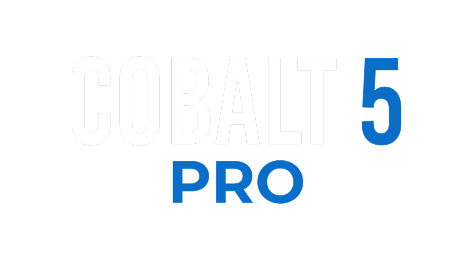
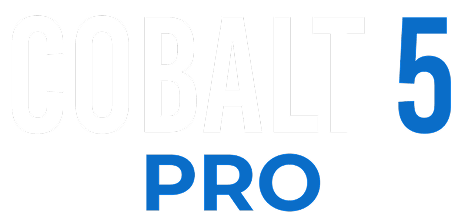
Update Step

Changed region(s): [[0.3043, 0.5938, 0.7, 0.9688], [0.7609, 0.0625, 1.0, 0.625]]

diff --git a/assets/theme.css b/assets/theme.css
@@ -75,11 +75,11 @@ ul, ol { margin: 0; padding: 0; list-style: none; }
   padding: 6px 14px;
   border-radius: var(--radius-pill);
   background: rgba(77,200,255,0.06);
-  border: 1px solid var(--line);
+  border: 1px solid rgba(77,200,255,0.35);
   font-size: 9px;
   font-weight: 700;
   letter-spacing: 0.22em;
-  color: var(--blue);
+  color: var(--blue-l);
   text-transform: uppercase;
 }
 .eyebrow .dot {
@@ -444,12 +444,13 @@ ul, ol { margin: 0; padding: 0; list-style: none; }
 }
 .hero h1 {
   font-family: var(--font-heading);
-  font-size: 88px;
+  font-size: 112px;
   line-height: 0.9;
   margin: 24px 0;
   color: var(--text);
   letter-spacing: 0.02em;
 }
+.hero h1 p { margin: 0; display: block; }
 .hero h1 .accent {
   background: linear-gradient(180deg, var(--blue-l) 0%, var(--blue) 100%);
   -webkit-background-clip: text;
@@ -770,23 +771,11 @@ ul, ol { margin: 0; padding: 0; list-style: none; }
 }
 .why-center .ring.r1 {
   width: 420px; height: 420px;
-  border: 21px solid rgba(17,136,214,0.55);
-  box-shadow: 0 0 40px rgba(17,136,214,0.4), 0 0 80px rgba(17,136,214,0.2), inset 0 0 40px rgba(17,136,214,0.15);
-  animation: ring-glow 3s ease-in-out infinite;
+  border: 2px solid rgba(17,136,214,0.9);
 }
 .why-center .ring.r2 {
-  width: 470px; height: 470px;
-  border: 4px solid rgba(17,136,214,0.35);
-  box-shadow: 0 0 20px rgba(77,200,255,0.25), 0 0 40px rgba(77,200,255,0.1);
-  animation: ring-glow 3s ease-in-out infinite 0.5s;
-}
-@keyframes ring-glow {
-  0%, 100% {
-    box-shadow: 0 0 40px rgba(17,136,214,0.4), 0 0 80px rgba(17,136,214,0.2), inset 0 0 40px rgba(17,136,214,0.15);
-  }
-  50% {
-    box-shadow: 0 0 60px rgba(17,136,214,0.65), 0 0 100px rgba(17,136,214,0.35), inset 0 0 60px rgba(17,136,214,0.25);
-  }
+  width: 490px; height: 490px;
+  border: 1px solid rgba(17,136,214,0.45);
 }
 .why-center__img {
   position: relative;
@@ -835,7 +824,6 @@ ul, ol { margin: 0; padding: 0; list-style: none; }
   background: var(--bg-3);
   border: 1px solid var(--line-soft);
   position: relative;
-  overflow: hidden;
   padding: 24px;
 }
 .tile.featured {
@@ -843,11 +831,13 @@ ul, ol { margin: 0; padding: 0; list-style: none; }
   padding: 0;
   background-size: cover;
   background-position: center;
+  overflow: hidden;
 }
 .tile.featured::after {
   content: '';
   position: absolute;
   inset: 0;
+  z-index: 1;
   background: linear-gradient(180deg, transparent 40%, rgba(6,8,15,0.85));
 }
 .tile.featured .caption {
@@ -933,38 +923,48 @@ ul, ol { margin: 0; padding: 0; list-style: none; }
 /* ---- APPLY STEPS ---- */
 .apply-grid {
   display: grid;
-  grid-template-columns: 1fr 1fr 1fr 1fr 1fr;
-  gap: 24px;
-  align-items: center;
+  grid-template-columns: 1fr auto 1fr auto 1fr auto 1fr;
+  gap: 16px;
+  align-items: stretch;
   margin-top: 64px;
   max-width: 1312px;
   margin-left: auto;
   margin-right: auto;
 }
-.step { position: relative; padding: 8px 0; }
-.step .num {
-  font-family: var(--font-heading);
-  font-size: 128px;
-  line-height: 1;
-  color: rgba(17,136,214,0.5);
-  letter-spacing: 0.02em;
-  transition: color 0.3s ease, transform 0.3s ease;
+.step {
+  position: relative;
+  background: var(--bg-3);
+  border: 1px solid var(--line-soft);
+  border-radius: var(--radius-md);
+  padding: 28px 28px 100px;
+  overflow: hidden;
+  height: 100%;
 }
-.step:hover .num { color: var(--blue); transform: translateX(4px); }
+.step .num {
+  position: absolute;
+  bottom: -12px; right: 10px;
+  font-family: var(--font-heading);
+  font-size: 120px;
+  line-height: 1;
+  color: rgba(77,200,255,0.1);
+  letter-spacing: 0.02em;
+  pointer-events: none;
+  transition: color 0.3s ease;
+}
+.step:hover .num { color: rgba(77,200,255,0.2); }
 .step h4 {
-  font-size: 15px;
+  font-size: 14px;
   font-weight: 700;
-  letter-spacing: 0.06em;
+  letter-spacing: 0.08em;
   color: var(--text);
-  margin: 16px 0 12px;
+  margin: 0 0 12px;
   white-space: pre-line;
 }
 .step p {
-  font-size: 14px;
+  font-size: 13px;
   line-height: 1.65;
   color: var(--text-2);
   margin: 0;
-  max-width: 220px;
 }
 .arrow-link {
   color: var(--blue);
@@ -2067,7 +2067,7 @@ ul, ol { margin: 0; padding: 0; list-style: none; }
    RESPONSIVE
    ======================================== */
 @media (max-width: 1200px) {
-  .hero h1 { font-size: 64px; }
+  .hero h1 { font-size: 80px; }
   .hero { padding: 80px 40px 60px; }
   .section { padding: 80px 40px; }
   .bento { grid-template-columns: 1fr 1fr 1fr; height: auto; }
@@ -2102,7 +2102,7 @@ ul, ol { margin: 0; padding: 0; list-style: none; }
   .hero-grid { grid-template-columns: 1fr; }
   .hero-visual { height: 340px; }
   .bottle { width: 180px; height: 340px; }
-  .hero h1 { font-size: 48px; }
+  .hero h1 { font-size: 60px; }
   .section { padding: 60px 24px; }
   .section-head h2 { font-size: 48px; }
   .proof { flex-wrap: wrap; height: auto; padding: 24px; gap: 20px; }
@@ -2124,7 +2124,8 @@ ul, ol { margin: 0; padding: 0; list-style: none; }
   .cta-inner h2 { font-size: 56px; }
   .cta-actions { align-items: flex-start; }
   .cart-drawer { width: 100vw; }
-  .apply-grid { grid-template-columns: 1fr 1fr; }
+  .apply-grid { grid-template-columns: 1fr 1fr; gap: 12px; }
+  .apply-grid .arrow-link { display: none; }
   .product-section { padding: 40px 24px 80px; }
   .collection-header, .collection-toolbar, .blog-header, .cart-page, .search-page, .customer-section, .list-collections { padding-left: 24px; padding-right: 24px; }
   .collection-layout { padding: 20px 24px 60px; }
@@ -2140,7 +2141,7 @@ ul, ol { margin: 0; padding: 0; list-style: none; }
 }
 
 @media (max-width: 480px) {
-  .hero h1 { font-size: 40px; }
+  .hero h1 { font-size: 52px; }
   .bento { grid-template-columns: 1fr; }
   .bento .tile.featured { grid-column: span 1; height: 260px; }
   .footer-grid { grid-template-columns: 1fr; }